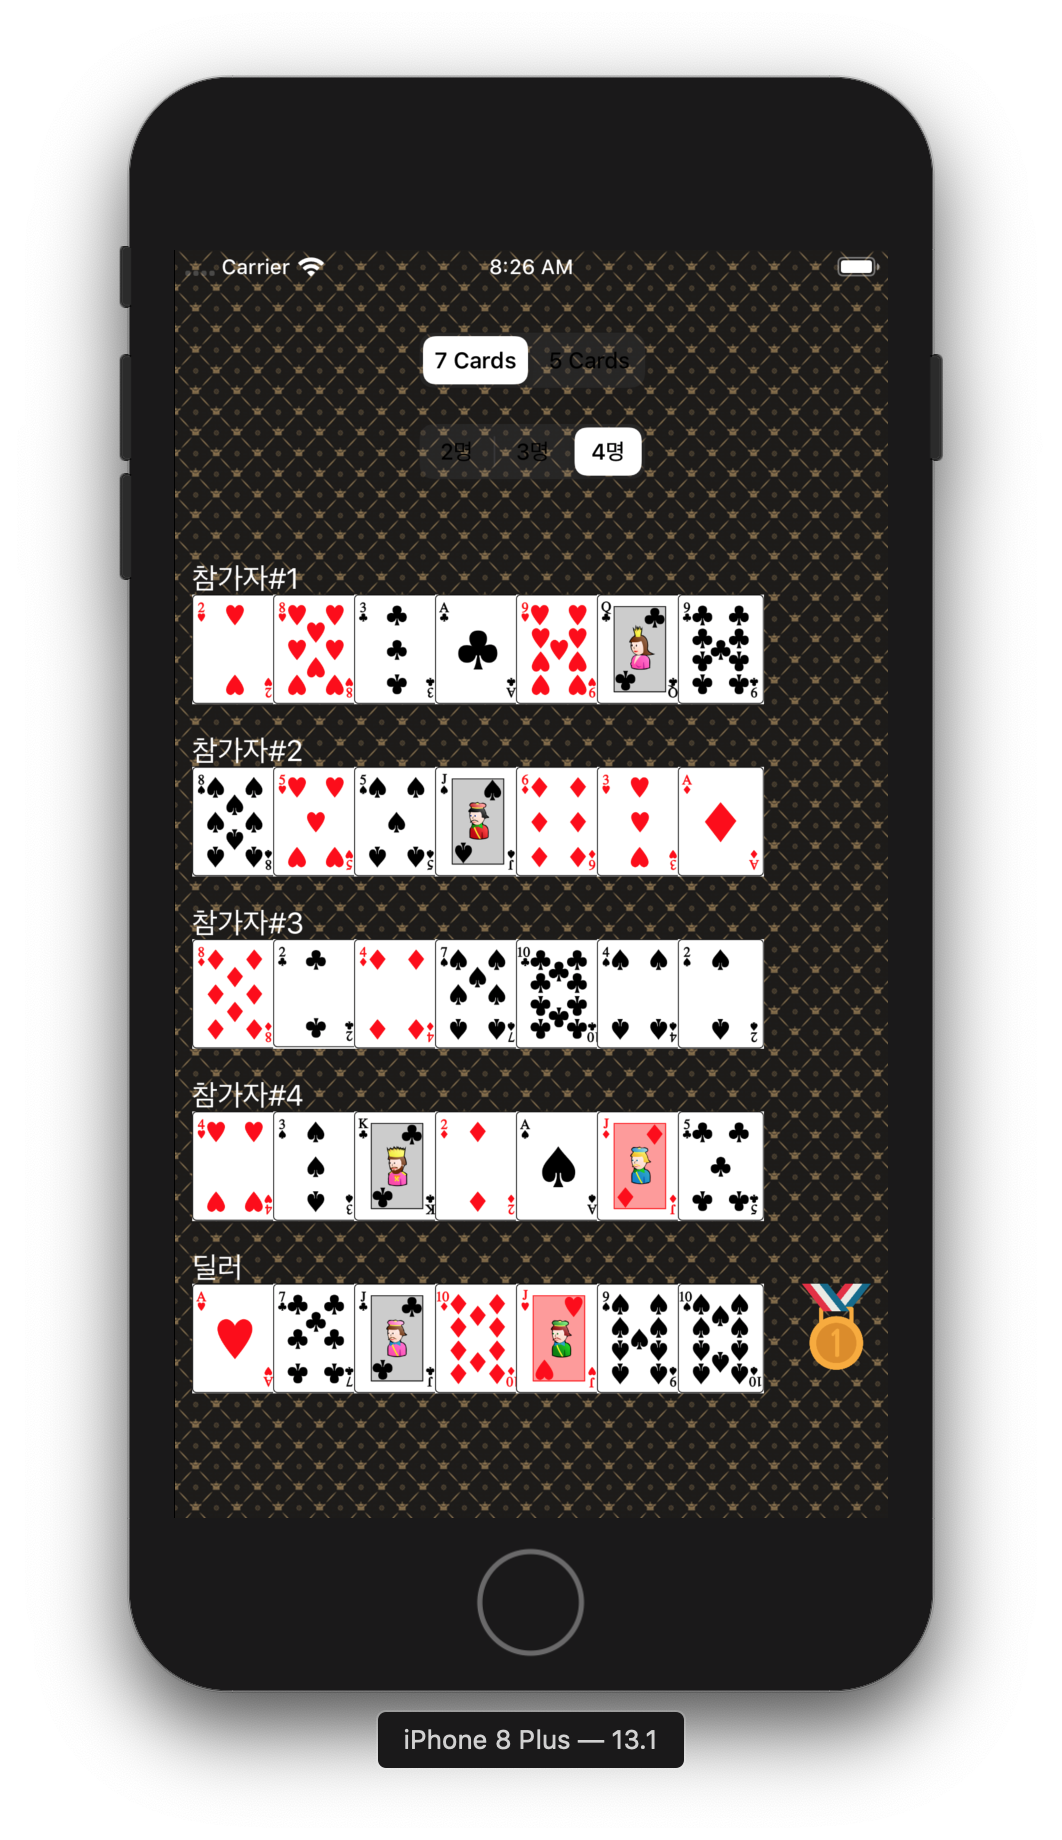
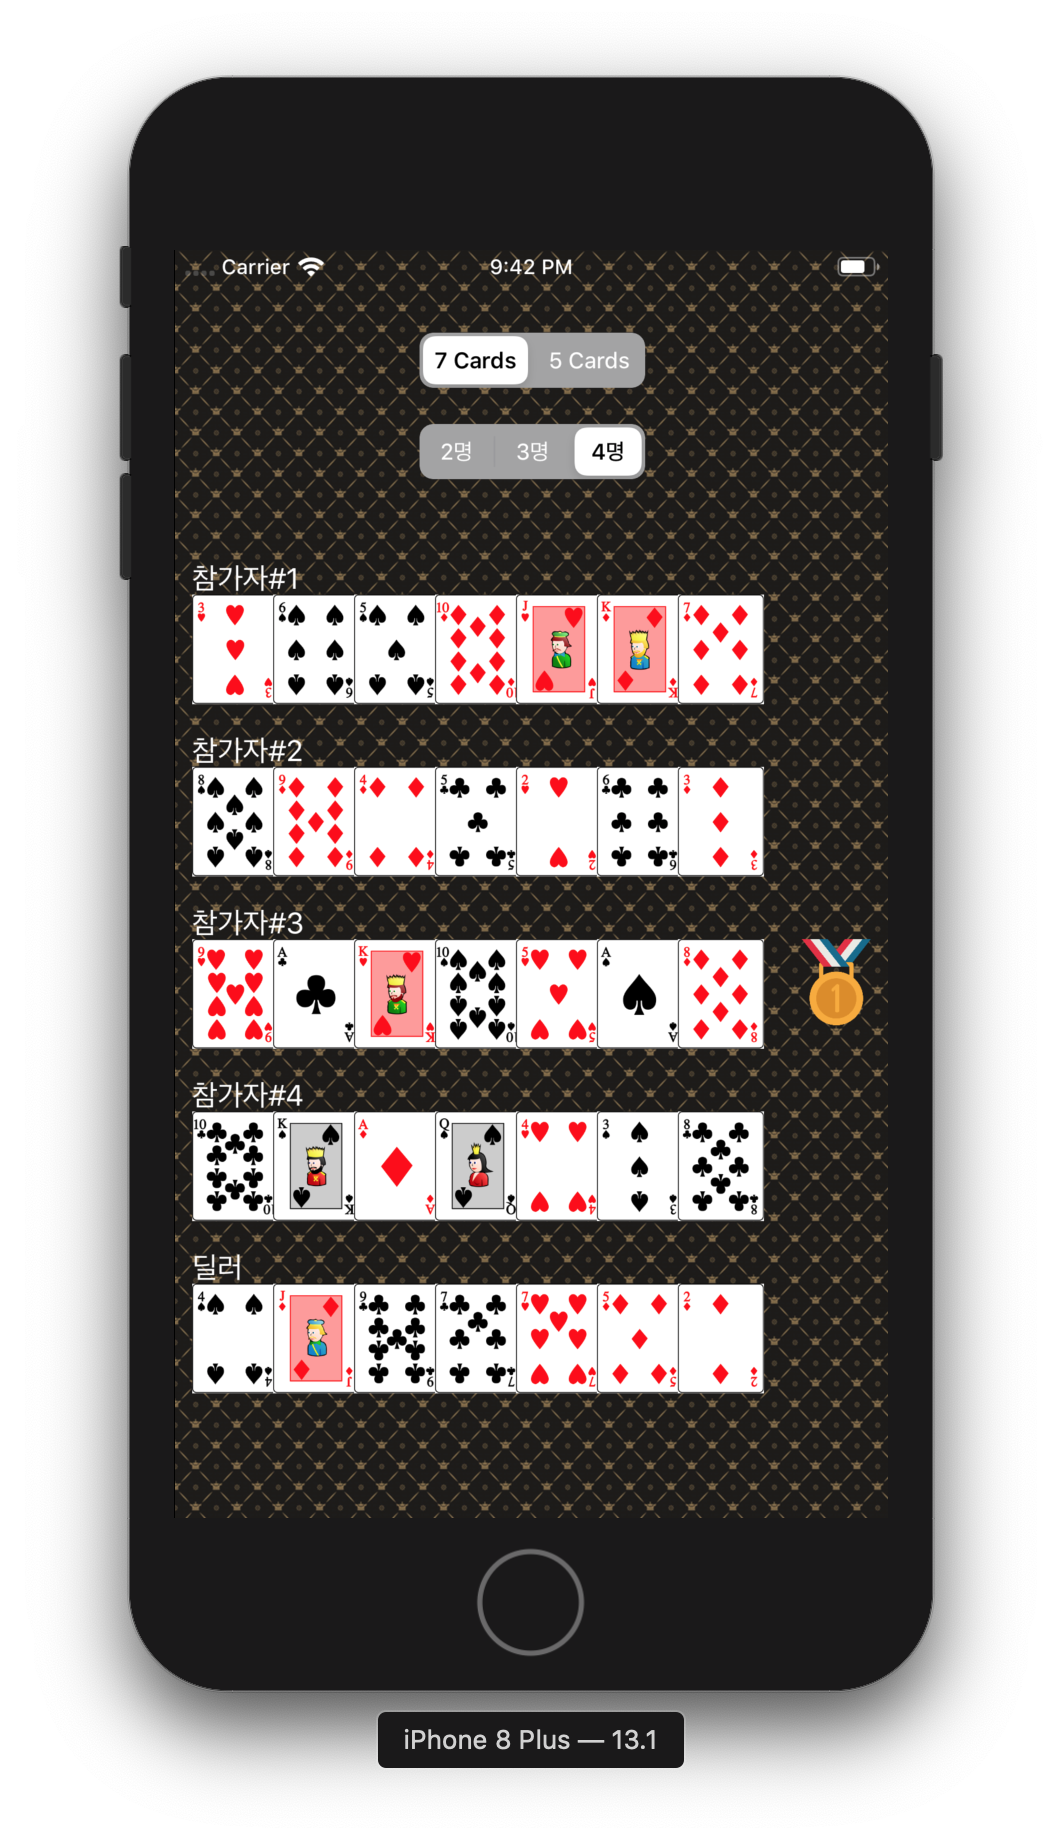
fix: 기존 viewController에서 view를 그리는 코드를 cardGameView로 이동, add : UISegmentedControl 설정 추가

diff --git a/CardGameApp/CardGameApp/ViewController.swift b/CardGameApp/CardGameApp/ViewController.swift
@@ -11,8 +11,7 @@ import UIKit
 class ViewController: UIViewController {
 
     //MARK: variable
-    var subviews = [UIView]()
-    private var participantsCount = 0
+    var cardGameView = CardGameView()
     private let bg_pattern = "bg_pattern"
 
     //MARK: IBOutlet
@@ -21,9 +20,8 @@ class ViewController: UIViewController {
 
     //MARK: IBAction
     @IBAction func changeSegment(_ sender: Any) {
-        self.participantsCount = 0
-        deleteView()
-        playGame()
+        cardGameView.reset()
+        setCardGameView()
     }
 
     //MARK: override
@@ -34,13 +32,10 @@ class ViewController: UIViewController {
 
     override func viewDidLoad() {
         super.viewDidLoad()
-
-        guard let image = UIImage(named: bg_pattern) else { return }
-        self.view.backgroundColor = UIColor(patternImage: image)
+        setBackground()
         self.becomeFirstResponder()
-        
-        playGame()
-
+        setSegmented()
+        setCardGameView()
     }
     
     /// 사용자 Shake 이벤트를 발생
@@ -51,94 +46,36 @@ class ViewController: UIViewController {
     /// Shake 종료시 호출
     override func motionEnded(_ motion: UIEvent.EventSubtype, with event: UIEvent?) {
         if motion == .motionShake {
-            deleteView()
-            playGame()
+            cardGameView.reset()
+            setCardGameView()
         }
     }
-
+    
     //MARK: private func
-    /// 카드 게임
-    private func playGame() {
+    /// 배경 설정
+    private func setBackground() {
+        guard let image = UIImage(named: bg_pattern) else { return }
+        self.view.backgroundColor = UIColor(patternImage: image)
+    }
+    
+    /// UISegmentedControl 설정
+    private func setSegmented() {
+        cardsSegment.setTitleTextAttributes([NSAttributedString.Key.foregroundColor : UIColor.black], for: .selected)
+        cardsSegment.setTitleTextAttributes([NSAttributedString.Key.foregroundColor : UIColor.white], for: .normal)
+        playerSegment.setTitleTextAttributes([NSAttributedString.Key.foregroundColor : UIColor.black], for: .selected)
+        playerSegment.setTitleTextAttributes([NSAttributedString.Key.foregroundColor : UIColor.white], for: .normal)
+    }
+    
+    /// 카드게임 시작
+    private func setCardGameView() {
         let gameMode = GameMode.init(rawValue: cardsSegment.selectedSegmentIndex + 1) ?? GameMode.sevenCard
         let userCount = playerSegment.selectedSegmentIndex + 2
         let cardGame = CardGame.init(gameMode: gameMode, players: userCount)
 
-        let _ = showResults(cardGame)
-    }
-
-    //MARK: func
-    /// view 삭제
-    func deleteView() {
-        for view in subviews {
-            view.removeFromSuperview()
-        }
-    }
-      
-    /// 결과
-    func showResults(_ cardGame: CardGame) -> Bool {
-        return cardGame.play(card(name: cardStack:), winner)
-    }
-
-    /// 카드
-    func card(name: String, cardStack: String) {
-        participantsCount = drawLabel(name: name)
-
-        let cardStackDescription = cardStack.description
-        var shape = cardStackDescription.components(separatedBy: ",")
-        shape[0].remove(at: shape[0].startIndex)
-        shape[shape.count - 1].remove(at: shape[shape.count - 1].index(before: shape[shape.count - 1].endIndex))
-
-        for index in 0..<shape.count {
-            let imgShape = shape[index].trimmingCharacters(in: .whitespacesAndNewlines)
-            let cardX = Double(10 + 47 * index)
-            let cardY = Double(100 + 100 * participantsCount)
-            guard let image: UIImage = UIImage(named: imgShape) else { break }
-
-            let imageView = UIImageView(image: image)
-
-            self.view.addSubview(imageView)
-            imageView.frame = CGRect(x: cardX, y: cardY, width: 50.0, height: 63.5)
-            subviews.append(imageView)
-        }
-    }
-    
-    /// 이름의 마지막 글자를 보고 숫자를 돌려준다.
-    func nameResult(name: String) -> Int {
-        let lastCharIndex = name.index(before: name.endIndex)
-        let lastIndexString = name[lastCharIndex]
+        let _ = cardGameView.showResults(cardGame)
         
-        var nameNumber = 0
-        if lastIndexString == "러" {
-            nameNumber = playerSegment.selectedSegmentIndex + 3
-        } else {
-            nameNumber = Int(String(lastIndexString)) ?? 0
+        for view in cardGameView.returnView() {
+            self.view.addSubview(view)
         }
-        
-        return nameNumber
-    }
-
-    /// Label 그리기
-    func drawLabel(name: String) -> Int {
-        let number = nameResult(name: name)
-
-        let label = UILabel(frame: CGRect(x: 10, y: 80 + number * 100, width: 200, height: 21))
-        label.text = name
-        label.textColor = UIColor.white
-        self.view.addSubview(label)
-        subviews.append(label)
-        return number
-    }
-
-    /// 메달 주기
-    func winner(name: String) {
-        let number = nameResult(name: name)
-        let cardX = Double(10 + 47 * 7 + 20)
-        let cardY = Double(100 + 100 * number)
-        guard let image: UIImage = UIImage(named: "gold-medal") else { return }
-        let imageView = UIImageView(image: image)
-
-        self.view.addSubview(imageView)
-        imageView.frame = CGRect(x: cardX, y: cardY, width: 50.0, height: 50.0)
-        subviews.append(imageView)
     }
 }

diff --git a/CardGameApp/CardGameApp/CardGameView.swift b/CardGameApp/CardGameApp/CardGameView.swift
@@ -1,0 +1,107 @@
+//
+//  CardGameView.swift
+//  CardGameApp
+//
+//  Created by Elena on 11/11/2019.
+//  Copyright © 2019 elena. All rights reserved.
+//
+
+import UIKit
+
+class CardGameView: UIView {
+    
+    //MARK: variable
+    private var participantsCount = 0
+    var subview = [UIView]()
+
+    //MARK: override
+    override init(frame: CGRect) {
+        super.init(frame: frame)
+    }
+
+    required init?(coder: NSCoder) {
+        super.init(coder: coder)
+    }
+    
+    //MARK: func
+    func reset() {
+        self.participantsCount = 0
+        for view in subview {
+            view.removeFromSuperview()
+        }
+        self.subview.removeAll()
+    }
+    
+    func returnView() -> [UIView]{
+        return subview
+    }
+    
+    func showResults(_ cardGame: CardGame) -> Bool {
+        return cardGame.play(card(name: cardStack:), winner)
+    }
+    
+    /// 카드
+    func card(name: String, cardStack: String) {
+        participantsCount = drawLabel(name: name)
+
+        let cardStackDescription = cardStack.description
+        var shape = cardStackDescription.components(separatedBy: ",")
+        shape[0].remove(at: shape[0].startIndex)
+        shape[shape.count - 1].remove(at: shape[shape.count - 1].index(before: shape[shape.count - 1].endIndex))
+
+        for index in 0..<shape.count {
+            let imgShape = shape[index].trimmingCharacters(in: .whitespacesAndNewlines)
+            let cardX = Double(10 + 47 * index)
+            let cardY = Double(100 + 100 * participantsCount)
+            guard let image: UIImage = UIImage(named: imgShape) else { break }
+
+            let imageView = UIImageView(image: image)
+
+            subview.append(imageView)
+            imageView.frame = CGRect(x: cardX, y: cardY, width: 50.0, height: 63.5)
+        }
+    }
+    
+    /// 이름의 마지막 글자를 보고 숫자를 돌려준다.
+    func nameResult(name: String) -> Int {
+        participantsCount += 1
+        return participantsCount
+    }
+
+    /// Label 그리기
+    func drawLabel(name: String) -> Int {
+        let number = nameResult(name: name)
+
+        let label = UILabel(frame: CGRect(x: 10, y: 80 + number * 100, width: 200, height: 21))
+        label.text = name
+        label.textColor = UIColor.white
+        subview.append(label)
+        return number
+    }
+
+    /// 메달 주기
+    func winner(name: String) {
+        let number = winnerNameNumber(name:name)
+        let cardX = Double(10 + 47 * 7 + 20)
+        let cardY = Double(100 + 100 * number)
+        guard let image: UIImage = UIImage(named: "gold-medal") else { return }
+        let imageView = UIImageView(image: image)
+
+        subview.append(imageView)
+        imageView.frame = CGRect(x: cardX, y: cardY, width: 50.0, height: 50.0)
+    }
+    
+    /// 기존에 이긴사람 이름을 String으로 받아서, 해당 위치에 메달을 주기 위해서 위치를 구하기 위해 만들었다.
+    func winnerNameNumber(name: String) -> Int{
+        let lastCharIndex = name.index(before: name.endIndex)
+        let lastIndexString = name[lastCharIndex]
+
+        var nameNumber = 0
+        if lastIndexString == "러" {
+            nameNumber = participantsCount
+        }else {
+            nameNumber = Int(String(lastIndexString)) ?? 0
+        }
+        return nameNumber
+    }
+}
